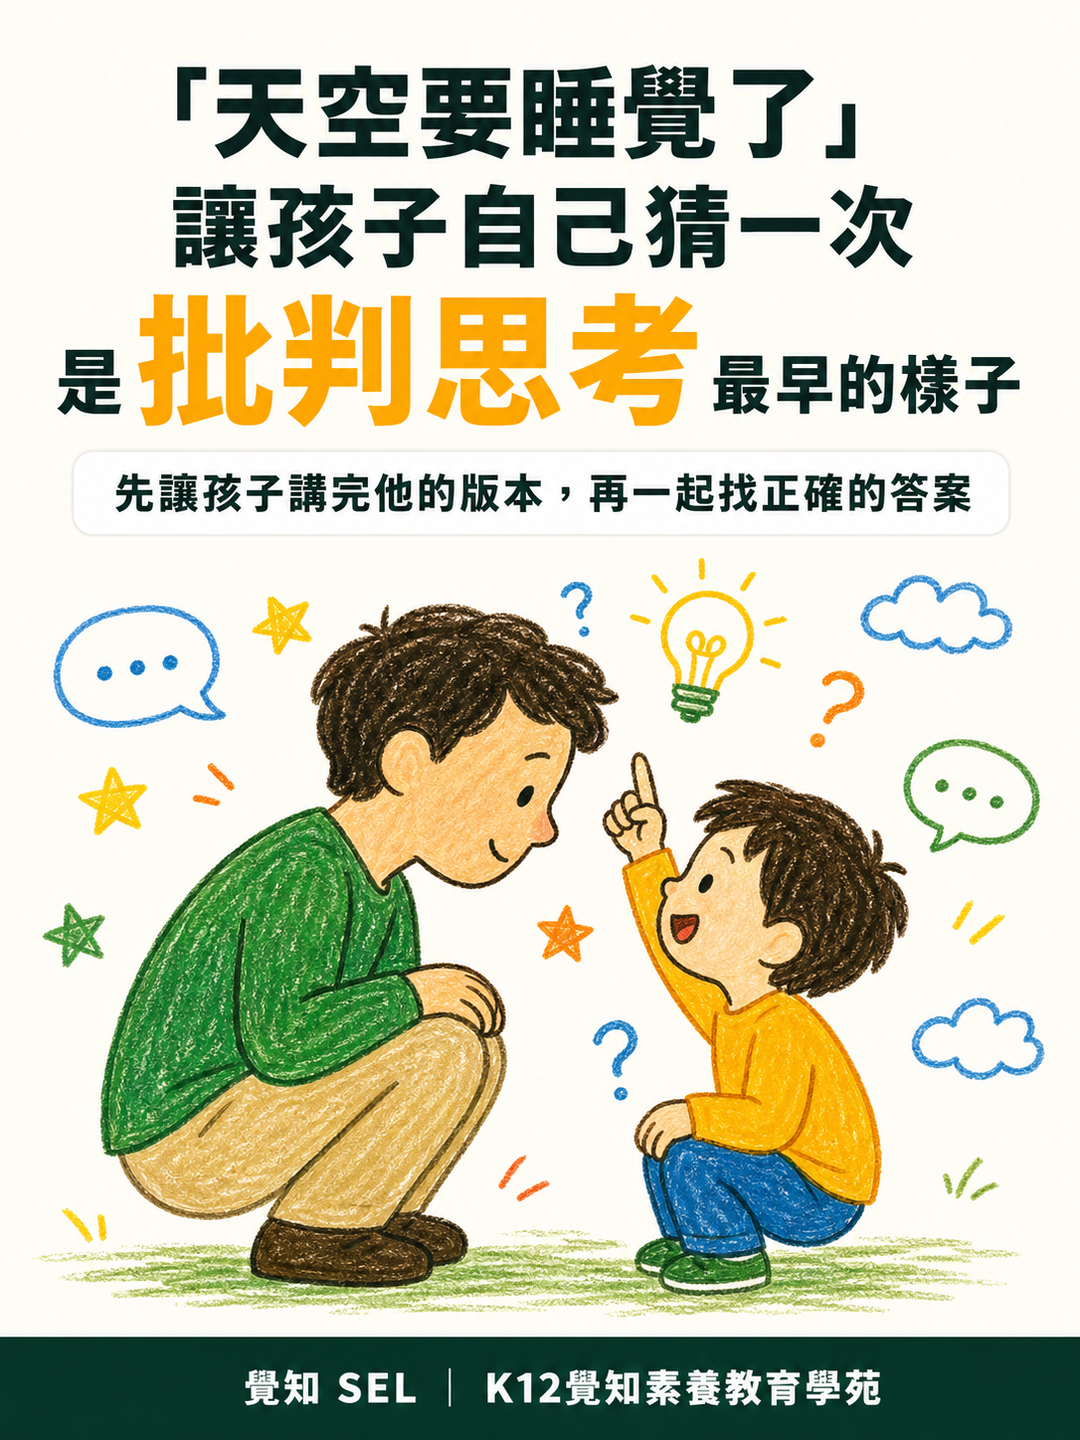
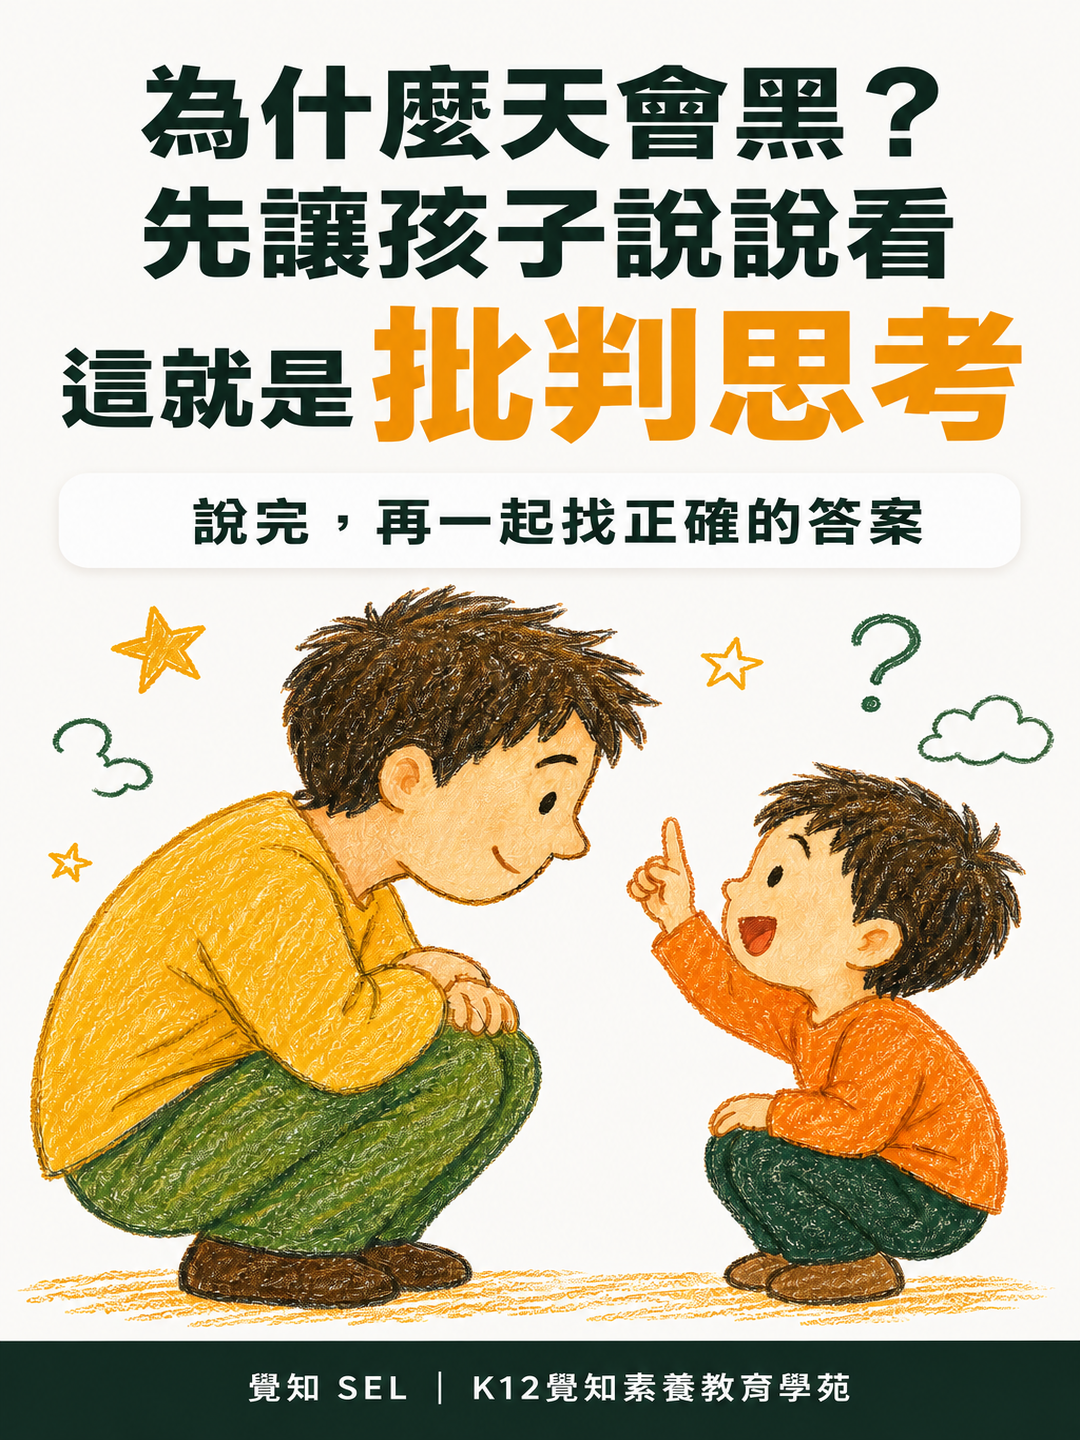
auto: dailynews update 2026-08-20 18:52 TW

diff --git a/2026-08/parenting_essence_2026-08-20.html b/2026-08/parenting_essence_2026-08-20.html
@@ -2828,7 +2828,7 @@ body .body section {
       <h2>孩子給的答案不正確，那段話<span style="white-space:nowrap">還是要聽完</span></h2>
       <p>「天空要睡覺」當然不是天文學。可是這一小段話裡，有三件事已經<span style="white-space:nowrap">發生了。</span></p>
       <p>他把一個新問題連到自己已經懂的事情上（睡覺的時候會關燈）；他做了一次推論；他還把這個推論用完整的句子講給<span style="white-space:nowrap">別人聽。</span></p>
-      <p>這三件事，就是批判思考最早的樣子。它不是等到國小才開始——讓孩子自己猜一次，四歲<span style="white-space:nowrap">就在發生了。</span></p>
+      <p>先讓孩子說說看，這就是批判思考最早的樣子。它不是等到國小才開始，四歲<span style="white-space:nowrap">就在發生了。</span></p>
       <p>如果大人一開口就給了正確答案，這三件事一件都不會發生。孩子學到的會是另一件事：問題有標準答案，而答案在大<span style="white-space:nowrap">人那裡。</span></p>
     </section>
 
@@ -2838,7 +2838,7 @@ body .body section {
       <p>孩子講的版本通常不正確，大人會很想立刻補一句「其實是因為地球在轉喔」。這一句一講，孩子剛剛接好的那條線<span style="white-space:nowrap">就斷了。</span></p>
       <p>比較有用的做法是先接住，再<span style="white-space:nowrap">一起查。</span></p>
       <div class="say">低聲說也可以：「天空要睡覺，這個說法我喜歡。我們晚一點一起查查看真正的原因，好<span style="white-space:nowrap">不好？」</span></div>
-      <p>順序是關鍵。先讓孩子講完他的版本，再一起找正確的答案。兩件事都做到，孩子既留住了想的習慣，也拿到了正確<span style="white-space:nowrap">的知識。</span></p>
+      <p>順序是關鍵。先讓孩子說說看，孩子說完，再一起找正確的答案。兩件事都做到，孩子既留住了想的習慣，也拿到了正確<span style="white-space:nowrap">的知識。</span></p>
     <figure class="kcard-inline" style="margin:34px auto;text-align:center;max-width:640px">
       <img src="parenting_essence_2026-08-20_kcard.png" alt="覺知提問：先聽版本，再找答案" style="width:100%;border-radius:16px;box-shadow:0 14px 34px -18px rgba(70,50,20,.45)" loading="lazy">
     </figure>
